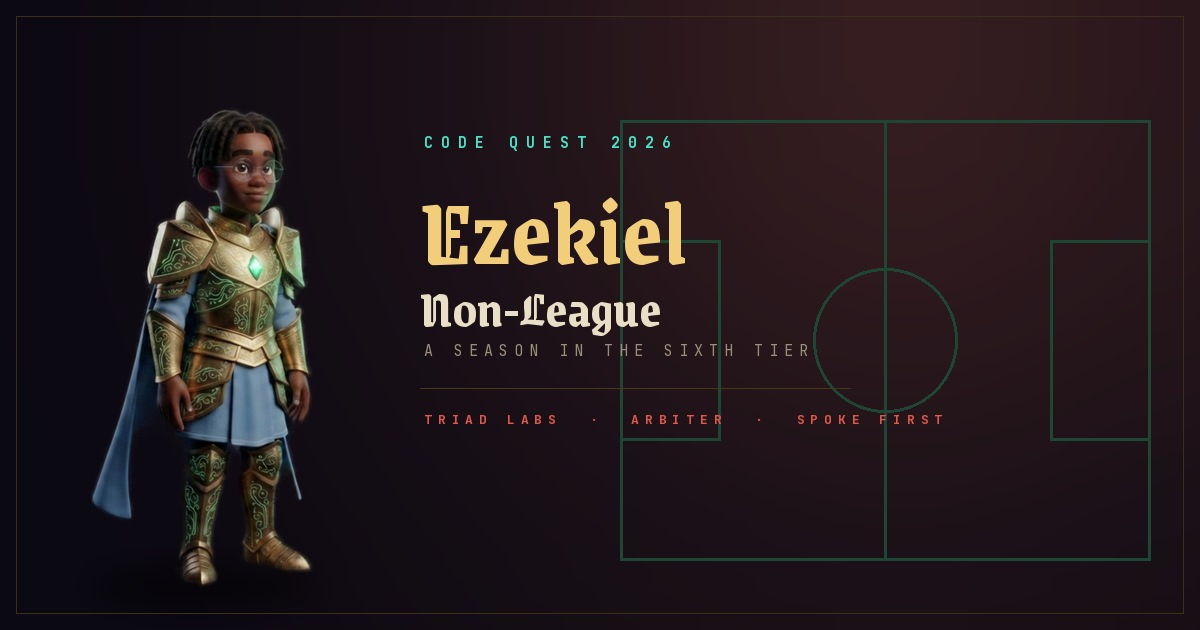
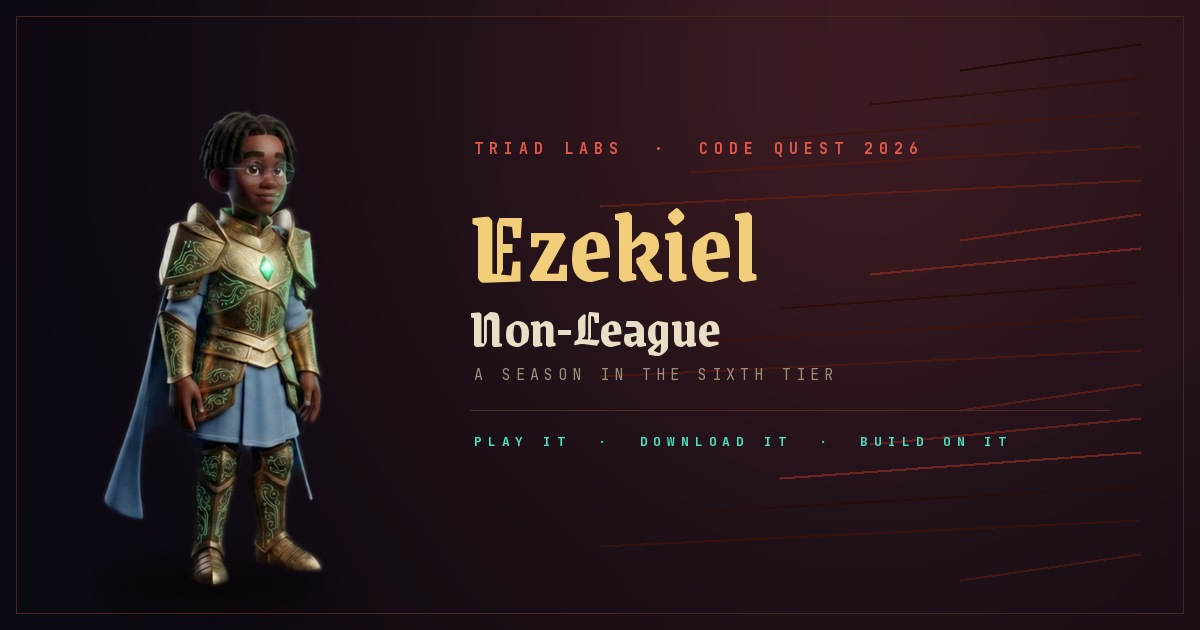
Ezekiel's page with a downloadable project kit
Non-League packaged as a zip with the game, both presentation formats
and a README covering how to run and edit it, plus ideas for a second
version. Linked from the charter, the overview and Triad Labs.

diff --git a/codequest/ezekiel/index.html b/codequest/ezekiel/index.html
@@ -5,9 +5,9 @@
 <meta name="viewport" content="width=device-width, initial-scale=1, viewport-fit=cover">
 <meta name="theme-color" content="#0B0912">
 <title>Ezekiel · Code Quest 2026</title>
-<meta name="description" content="Non-League by Ezekiel. Play it, read the breakdown, or download the whole thing and keep building. Code Quest 2026.">
+<meta name="description" content="Non-League by Ezekiel. Play it, download it, build on it. Triad Labs, Code Quest 2026.">
 <meta property="og:title" content="Ezekiel · Code Quest 2026">
-<meta property="og:description" content="Non-League — a season in the sixth tier. Play it, or take the files and keep going.">
+<meta property="og:description" content="Non-League — a season in the sixth tier. Play it, download it, build on it.">
 <meta property="og:image" content="https://altitudeaico.github.io/goteamolatoyes/codequest/ezekiel/og.jpg">
 <meta property="og:url" content="https://altitudeaico.github.io/goteamolatoyes/codequest/ezekiel/">
 <meta property="og:type" content="website">
@@ -17,7 +17,7 @@
 <link href="https://fonts.googleapis.com/css2?family=Grenze+Gotisch:wght@400;700;800&family=DM+Sans:opsz,wght@9..40,400;9..40,500;9..40,700&family=JetBrains+Mono:wght@400;700&display=swap" rel="stylesheet">
 <style>
 :root{
-  --night:#0B0912; --grape:#15121F; --deep:#07060C;
+  --night:#0B0912; --grape:#15121F; --deep:#1C1828;
   --candy:#E4574A; --mint:#45E3C4; --sun:#F2CE7B; --cream:#E9DFC7;
   --dim:#9A8F7A;
   --line:rgba(217,169,76,.22); --line-soft:rgba(217,169,76,.1);
@@ -34,8 +34,8 @@ body{
 body::before{
   content:"";position:fixed;inset:0;pointer-events:none;z-index:0;
   background:
-    radial-gradient(55% 34% at 50% -2%, rgba(217,169,76,.14), transparent 68%),
-    radial-gradient(46% 32% at 92% 84%, rgba(204,58,46,.10), transparent 72%);
+    radial-gradient(58% 36% at 50% -3%, rgba(217,169,76,.14), transparent 70%),
+    radial-gradient(46% 32% at 88% 84%, rgba(204,58,46,.13), transparent 74%);
 }
 .wrap{
   position:relative;z-index:1;max-width:660px;margin:0 auto;
@@ -73,19 +73,19 @@ header{padding:28px 0 4px;text-align:center}
 section{padding:22px 0 0}
 
 .play{
-  display:block;margin-top:20px;text-decoration:none;border-radius:4px;
-  background:linear-gradient(150deg,#CC3A2E,#8E2318);
+  display:block;margin-top:20px;text-decoration:none;border-radius:20px;
+  background:linear-gradient(150deg,#C33528,#8E2419);
   border:1px solid rgba(217,169,76,.28);padding:26px 22px;text-align:center;
-  box-shadow:0 12px 0 rgba(0,0,0,.32);transition:transform .14s
+  box-shadow:0 10px 0 rgba(120,30,22,.5);transition:transform .14s
 }
-.play:active{transform:translateY(4px);box-shadow:0 6px 0 rgba(0,0,0,.32)}
+.play:active{transform:translateY(4px);box-shadow:0 5px 0 rgba(120,30,22,.5)}
 .play .big{
   font-family:var(--gothic);font-weight:800;font-size:clamp(30px,8vw,44px);
-  line-height:1;color:var(--sun);display:block
+  line-height:1;color:#FFF;display:block
 }
 .play .sub{display:block;margin-top:8px;color:var(--cream);font-size:15px}
 .play .go{
-  display:inline-block;margin-top:16px;background:var(--cream);color:#0B0912;
+  display:inline-block;margin-top:16px;background:#F2CE7B;color:#1A0C05;
   font-family:var(--sys);font-size:11px;font-weight:700;letter-spacing:.18em;
   text-transform:uppercase;padding:13px 26px;border-radius:99px
 }
@@ -93,10 +93,10 @@ section{padding:22px 0 0}
 .how{display:grid;gap:10px;margin-top:18px}
 .how div{
   display:flex;gap:13px;align-items:flex-start;padding:14px 16px;
-  border:1px solid var(--line-soft);border-radius:3px;background:var(--grape)
+  border:1px solid var(--line-soft);border-radius:14px;background:#15121F
 }
 .how span.n{
-  font-family:var(--gothic);font-weight:800;font-size:22px;color:var(--candy);
+  font-family:var(--gothic);font-weight:800;font-size:22px;color:#E4574A;
   line-height:1;flex:none;width:22px
 }
 .how b{display:block;margin-bottom:2px}
@@ -104,14 +104,14 @@ section{padding:22px 0 0}
 
 .chars{display:flex;gap:10px;flex-wrap:wrap;margin-top:16px}
 .chars span{
-  border:1px solid var(--line-soft);border-radius:2px;padding:9px 16px;
-  font-size:15px;background:var(--grape)
+  border:1px solid var(--line-soft);border-radius:99px;padding:9px 16px;
+  font-size:15px;background:#15121F
 }
 
 .links{display:grid;gap:10px;margin-top:18px}
 .links a{
-  display:block;border:1px solid var(--line-soft);border-radius:3px;padding:15px 18px;
-  background:var(--grape);text-decoration:none;color:var(--cream)
+  display:block;border:1px solid var(--line-soft);border-radius:14px;padding:15px 18px;
+  background:#15121F;text-decoration:none;color:var(--cream)
 }
 .links a:hover{border-color:var(--sun)}
 .links a b{display:block;font-family:var(--gothic);font-size:20px;color:var(--sun);font-weight:700;line-height:1.2}
@@ -133,8 +133,8 @@ footer{
   <header>
[1 lines of base64/hex data omitted]
     <div class="name">Ezekiel</div>
-    <div class="strap">Triad Labs &middot; Arbiter &middot; Code Quest MMXXVI</div>
-    <p class="lede">Eldest in the room, so he settled the arguments. Built a football management game that simulates a whole season, and opened the presentations with it.</p>
+    <div class="strap">Triad Labs &middot; Code Quest MMXXVI</div>
+    <p class="lede">Ezekiel arbitrated on the day and opened The Telling. He built a football management game that runs a whole season in the browser.</p>
   </header>
 
   <div class="orn"><i></i></div>
@@ -142,11 +142,11 @@ footer{
   <section>
     <p class="eyebrow">Play it</p>
     <h2>Non-League</h2>
-    <p>Twenty-two Saturdays. One squad. One bank account. An owner who wants something specific from you, and a dressing room that will not always agree.</p>
+    <p>A season in the sixth tier. Twenty-two Saturdays, one squad, one bank account, an owner who wants something specific from you and a dressing room that will not always agree.</p>
     <a class="play" href="../triad-labs/non-league/" target="_blank" rel="noopener">
       <span class="big">Non-League</span>
-      <span class="sub">A season in the sixth tier</span>
-      <span class="go">Play it now</span>
+      <span class="sub">Runs in any browser &middot; 154 KB &middot; one file</span>
+      <span class="go">Start a season</span>
     </a>
   </section>
 
@@ -154,18 +154,18 @@ footer{
 
   <section>
     <p class="eyebrow">Take it away and keep building</p>
-    <h2>Download</h2>
-    <p>Everything in one zip: the game, both versions of the deck, and a short guide on how to work on it. No install, no build step. Unzip it, double-click <b>index.html</b>, and it runs.</p>
+    <h2>Download it</h2>
+    <p>The whole project in one zip &mdash; the game, both versions of the presentation, and a README explaining how to edit it. Nothing to install.</p>
     <a class="play" href="non-league.zip" download>
-      <span class="big">Download the files</span>
-      <span class="sub">Zip, about 250&nbsp;KB &middot; game, deck and guide</span>
-      <span class="go">Get the zip</span>
+      <span class="big">Download the project</span>
+      <span class="sub">ZIP &middot; 247 KB &middot; game, slides and instructions</span>
+      <span class="go">Get the files</span>
     </a>
-    <div class="how" style="margin-top:18px">
-      <div><span class="n">1</span><div><b>Unzip it</b><p>You get a folder called non-league.</p></div></div>
-      <div><span class="n">2</span><div><b>Double-click index.html</b><p>It opens in your browser and plays. Nothing to install.</p></div></div>
-      <div><span class="n">3</span><div><b>Open the same file in a code editor</b><p>VS Code is free. Everything is in that one file &mdash; the styling near the top, the game near the bottom.</p></div></div>
-      <div><span class="n">4</span><div><b>Change something, save, refresh</b><p>That is the whole loop. Keep a copy of the original before you change anything big.</p></div></div>
+    <div class="how">
+      <div><span class="n">1</span><div><b>Unzip it anywhere</b><p>Desktop is fine. Keep the folder together.</p></div></div>
+      <div><span class="n">2</span><div><b>Double-click index.html</b><p>It opens in your browser and works offline. No server, no install, no build step.</p></div></div>
+      <div><span class="n">3</span><div><b>Open the same file in a code editor</b><p>The HTML, the CSS and all the JavaScript are in that one file. Change something, save, refresh the browser.</p></div></div>
+      <div><span class="n">4</span><div><b>Keep a backup before big changes</b><p>Duplicate the file first and call it index-backup.html so you can always get back.</p></div></div>
     </div>
   </section>
 
@@ -175,19 +175,24 @@ footer{
     <p class="eyebrow">The presentation</p>
     <h2>The breakdown</h2>
     <div class="links">
-      <a href="../triad-labs/non-league/non-league-breakdown.pdf" target="_blank" rel="noopener"><b>View the deck</b><em>Opens in the browser, no PowerPoint needed</em></a>
-      <a href="../triad-labs/non-league/non-league-breakdown.pptx" download><b>Download the .pptx</b><em>The editable original</em></a>
-      <a href="../codequest-ezekiel.mp4" download><b>His transformation</b><em>8 seconds, 720p</em></a>
+      <a href="../triad-labs/non-league/non-league-breakdown.pdf" target="_blank" rel="noopener"><b>View the slides</b><em>Opens in the browser, twenty slides</em></a>
+      <a href="../triad-labs/non-league/non-league-breakdown.pptx" download><b>Download as PowerPoint</b><em>Editable, if you want to change it</em></a>
     </div>
   </section>
 
   <div class="orn"><i></i></div>
 
   <section>
-    <p class="eyebrow">What the judge said</p>
-    <h2>On the day</h2>
-    <p>Grandma named him <b>best team leader</b>. He held Triad Labs together all day and opened the presentations at 15:25.</p>
-    <p>She also said the demo was <b>too technical to follow</b>, and that the background music was too loud. Her words: it was pitched at football fanatics. The build was the strongest thing anyone made that day, and the explaining is the part to work on. That is a good problem to have, and it is fixable.</p>
+    <p class="eyebrow">If you want a version two</p>
+    <h2>Where to take it</h2>
+    <p class="dim" style="font-size:15px">Not instructions. Just the obvious next things.</p>
+    <div class="how">
+      <div><span class="n">&rsaquo;</span><div><b>More than one season</b><p>Carry results forward so a good year actually means something.</p></div></div>
+      <div><span class="n">&rsaquo;</span><div><b>Injuries and suspensions</b><p>Forces you to pick a different eleven rather than the same one every week.</p></div></div>
+      <div><span class="n">&rsaquo;</span><div><b>A transfer window with a budget</b><p>The bank account is already there. Give it something to spend on.</p></div></div>
+      <div><span class="n">&rsaquo;</span><div><b>Saving your progress</b><p>So closing the tab does not end the season.</p></div></div>
+      <div><span class="n">&rsaquo;</span><div><b>A cup competition</b><p>Different format, different pressure, alongside the league.</p></div></div>
+    </div>
   </section>
 
   <section>

diff --git a/codequest/2026/index.html b/codequest/2026/index.html
@@ -364,6 +364,7 @@ footer{
       <a href="../ezekiel/"><b>Ezekiel</b><span>Non-League, and the files to keep building it</span></a>
       <a href="../emma/"><b>Emma</b><span>Too young to compete. Made a game anyway.</span></a>
       <a href="../elsie/"><b>Elsie &middot; Butterfly Dash</b><span>Built after the day was over, under her own studio name</span></a>
+      <a href="../ezekiel/"><b>Ezekiel &middot; Non-League</b><span>The project files, so he can keep building it</span></a>
       <a href="../codequest-the-awakening.mp4"><b>The Awakening</b><span>All seven transformations, 57 seconds</span></a>
     </div>
   </section>

diff --git a/codequest/index.html b/codequest/index.html
@@ -518,6 +518,7 @@ footer{
       <a class="b" href="pixel-power/"><b>Pixel Power</b><span>Elsie &middot; Theodore &middot; Hannah</span></a>
       <a href="emma/"><b>Emma &middot; Rainbow Sprinkle Dash</b><span>Not on a team. Built one anyway.</span></a>
       <a href="elsie/"><b>Elsie &middot; Butterfly Dash</b><span>Butterflii Art Studio. Three ways to play.</span></a>
+      <a href="ezekiel/"><b>Ezekiel &middot; Non-League</b><span>Play it, download it, build on it.</span></a>
     </div>
     <p class="dim" style="margin-top:16px;font-size:15px">Builds appear here as they go live.</p>
   </section>

diff --git a/codequest/triad-labs/index.html b/codequest/triad-labs/index.html
@@ -269,6 +269,7 @@ footer a:hover{color:var(--gold)}
           <a class="btn ghost" href="non-league/non-league-breakdown.pdf" target="_blank" rel="noopener">View the deck</a>
           <a class="btn ghost" href="non-league/non-league-breakdown.pptx" download>Download .pptx</a>
           <a class="btn ghost" href="../ezekiel/">Ezekiel's page</a>
+          <a class="btn ghost" href="../ezekiel/">Ezekiel's page</a>
         </div>
       </div>
       <div class="build">
